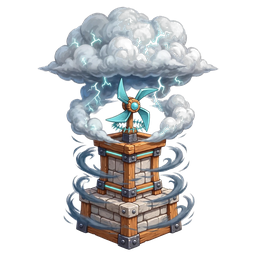
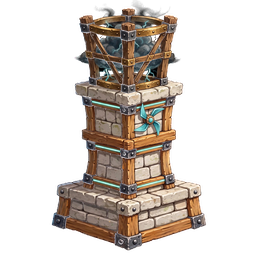
Wind completion: per-state muzzles + structure-first art for 7 states

diff --git a/tests/game.test.js b/tests/game.test.js
@@ -580,6 +580,76 @@ test("shots leave from each tower's muzzle, not its base", () => {
     assert.equal(m.x, 200 + dx * k, `archer ${state} muzzle x`);
     assert.equal(m.y, 300 + dy * k, `archer ${state} muzzle y`);
   }
+  // Wind per-state sweep (structure-first redo, 2026-10-20): every
+  // non-layered wind state — and the ascended — declares an override
+  // measured on its own artwork (the horn only on 0-0-1, rotor/hub on
+  // the dual-weapon states, the hood vent on 3-0-1 / 3-1-0). The
+  // three layered states stay out of the table on purpose:
+  // towerMuzzle resolves them through their layer emitter instead.
+  assert.ok(STATE_MUZZLES.wind, "wind declares per-state muzzles");
+  const WIND_LAYERED = ["0-0-0", "0-0-3", "3-0-0"];
+  for (const state of TOWER_STATES) {
+    if (WIND_LAYERED.includes(state)) {
+      assert.equal(
+        STATE_MUZZLES.wind[state],
+        undefined,
+        `wind ${state} is layered — no table entry`,
+      );
+      continue;
+    }
+    assert.ok(
+      STATE_MUZZLES.wind[state],
+      `wind ${state} has a measured muzzle`,
+    );
+  }
+  assert.ok(STATE_MUZZLES.wind.ascended, "wind ascended muzzle");
+  for (const [state, [dx, dy]] of Object.entries(STATE_MUZZLES.wind)) {
+    assert.ok(
+      dy <= -35 && dy >= -80,
+      `wind ${state} muzzle sits up at the emitter`,
+    );
+    assert.ok(Math.abs(dx) <= 36, `wind ${state} muzzle stays on the art`);
+    const probe =
+      state === "ascended"
+        ? { type: "wind", x: 200, y: 300, paths: [3, 3, 3] }
+        : {
+            type: "wind",
+            x: 200,
+            y: 300,
+            paths: state.split("-").map(Number),
+          };
+    assert.deepEqual(
+      declaredMuzzle(probe),
+      [dx, dy],
+      `wind ${state} declared muzzle`,
+    );
+    const m = towerMuzzle(probe);
+    const k = towerDisplaySize(probe) / 80;
+    assert.equal(m.x, 200 + dx * k, `wind ${state} muzzle x`);
+    assert.equal(m.y, 300 + dy * k, `wind ${state} muzzle y`);
+  }
+  // The layered wind states resolve through their (Phase-1 corrected)
+  // layer emitters, never the table or the type muzzle.
+  for (const state of WIND_LAYERED) {
+    const probe = {
+      type: "wind",
+      x: 200,
+      y: 300,
+      paths: state.split("-").map(Number),
+    };
+    const layer = towerLayer(probe);
+    assert.ok(layer, `wind ${state} has a layer`);
+    const rest = layeredMuzzle(probe, layer);
+    const m = towerMuzzle(probe);
+    assert.equal(m.x, rest.x, `wind ${state} layered muzzle x`);
+    assert.equal(m.y, rest.y, `wind ${state} layered muzzle y`);
+  }
+  assert.deepEqual(towerLayer({ type: "wind", paths: [0, 0, 3] }).emitter, [
+    0.5, 0.134,
+  ]);
+  assert.deepEqual(towerLayer({ type: "wind", paths: [3, 0, 0] }).emitter, [
+    0.52, 0.05,
+  ]);
   // Integration: the rendered shot starts at the muzzle while the
   // logical flight keeps its classic start (the homing chase is
   // balance-tuned around it — see the spawn comment in Game.js). The

diff --git a/src/data/towers.js b/src/data/towers.js
@@ -831,6 +831,38 @@ export const STATE_MUZZLES = {
     "3-1-0": [34, -46],
     ascended: [-24, -49],
   },
+  // Wind (structure-first redo, 2026-10-20): every state measured on
+  // its own artwork the same way. The horn is the emitter ONLY for
+  // 0-0-1 (the shallow [19, -37]); dual-weapon states point at their
+  // rotor/hub, the 3-0-1 / 3-1-0 pair at the hood vent. The three
+  // layered states (0-0-0, 0-0-3, 3-0-0) are absent on purpose —
+  // towerMuzzle resolves them through towerLayers.json first, so
+  // their emitters live there, not here.
+  wind: {
+    "0-0-1": [19, -37],
+    "0-0-2": [3, -57],
+    "0-1-0": [2, -64],
+    "0-1-1": [3, -65],
+    "0-1-2": [0, -65],
+    "0-1-3": [6, -43],
+    "0-2-0": [6, -66],
+    "0-2-1": [1, -61],
+    "0-3-0": [1, -60],
+    "0-3-1": [6, -63],
+    "1-0-0": [4, -68],
+    "1-0-1": [4, -65],
+    "1-0-2": [2, -63],
+    "1-0-3": [-6, -59],
+    "1-1-0": [4, -67],
+    "1-2-0": [2, -66],
+    "1-3-0": [4, -66],
+    "2-0-0": [2, -68],
+    "2-0-1": [3, -67],
+    "2-1-0": [0, -75],
+    "3-0-1": [1, -72],
+    "3-1-0": [0, -72],
+    ascended: [0, -45],
+  },
 };
 // The muzzle a tower actually declares: per-state override when one
 // exists, else the type's muzzle. Single source of truth for the sim,
